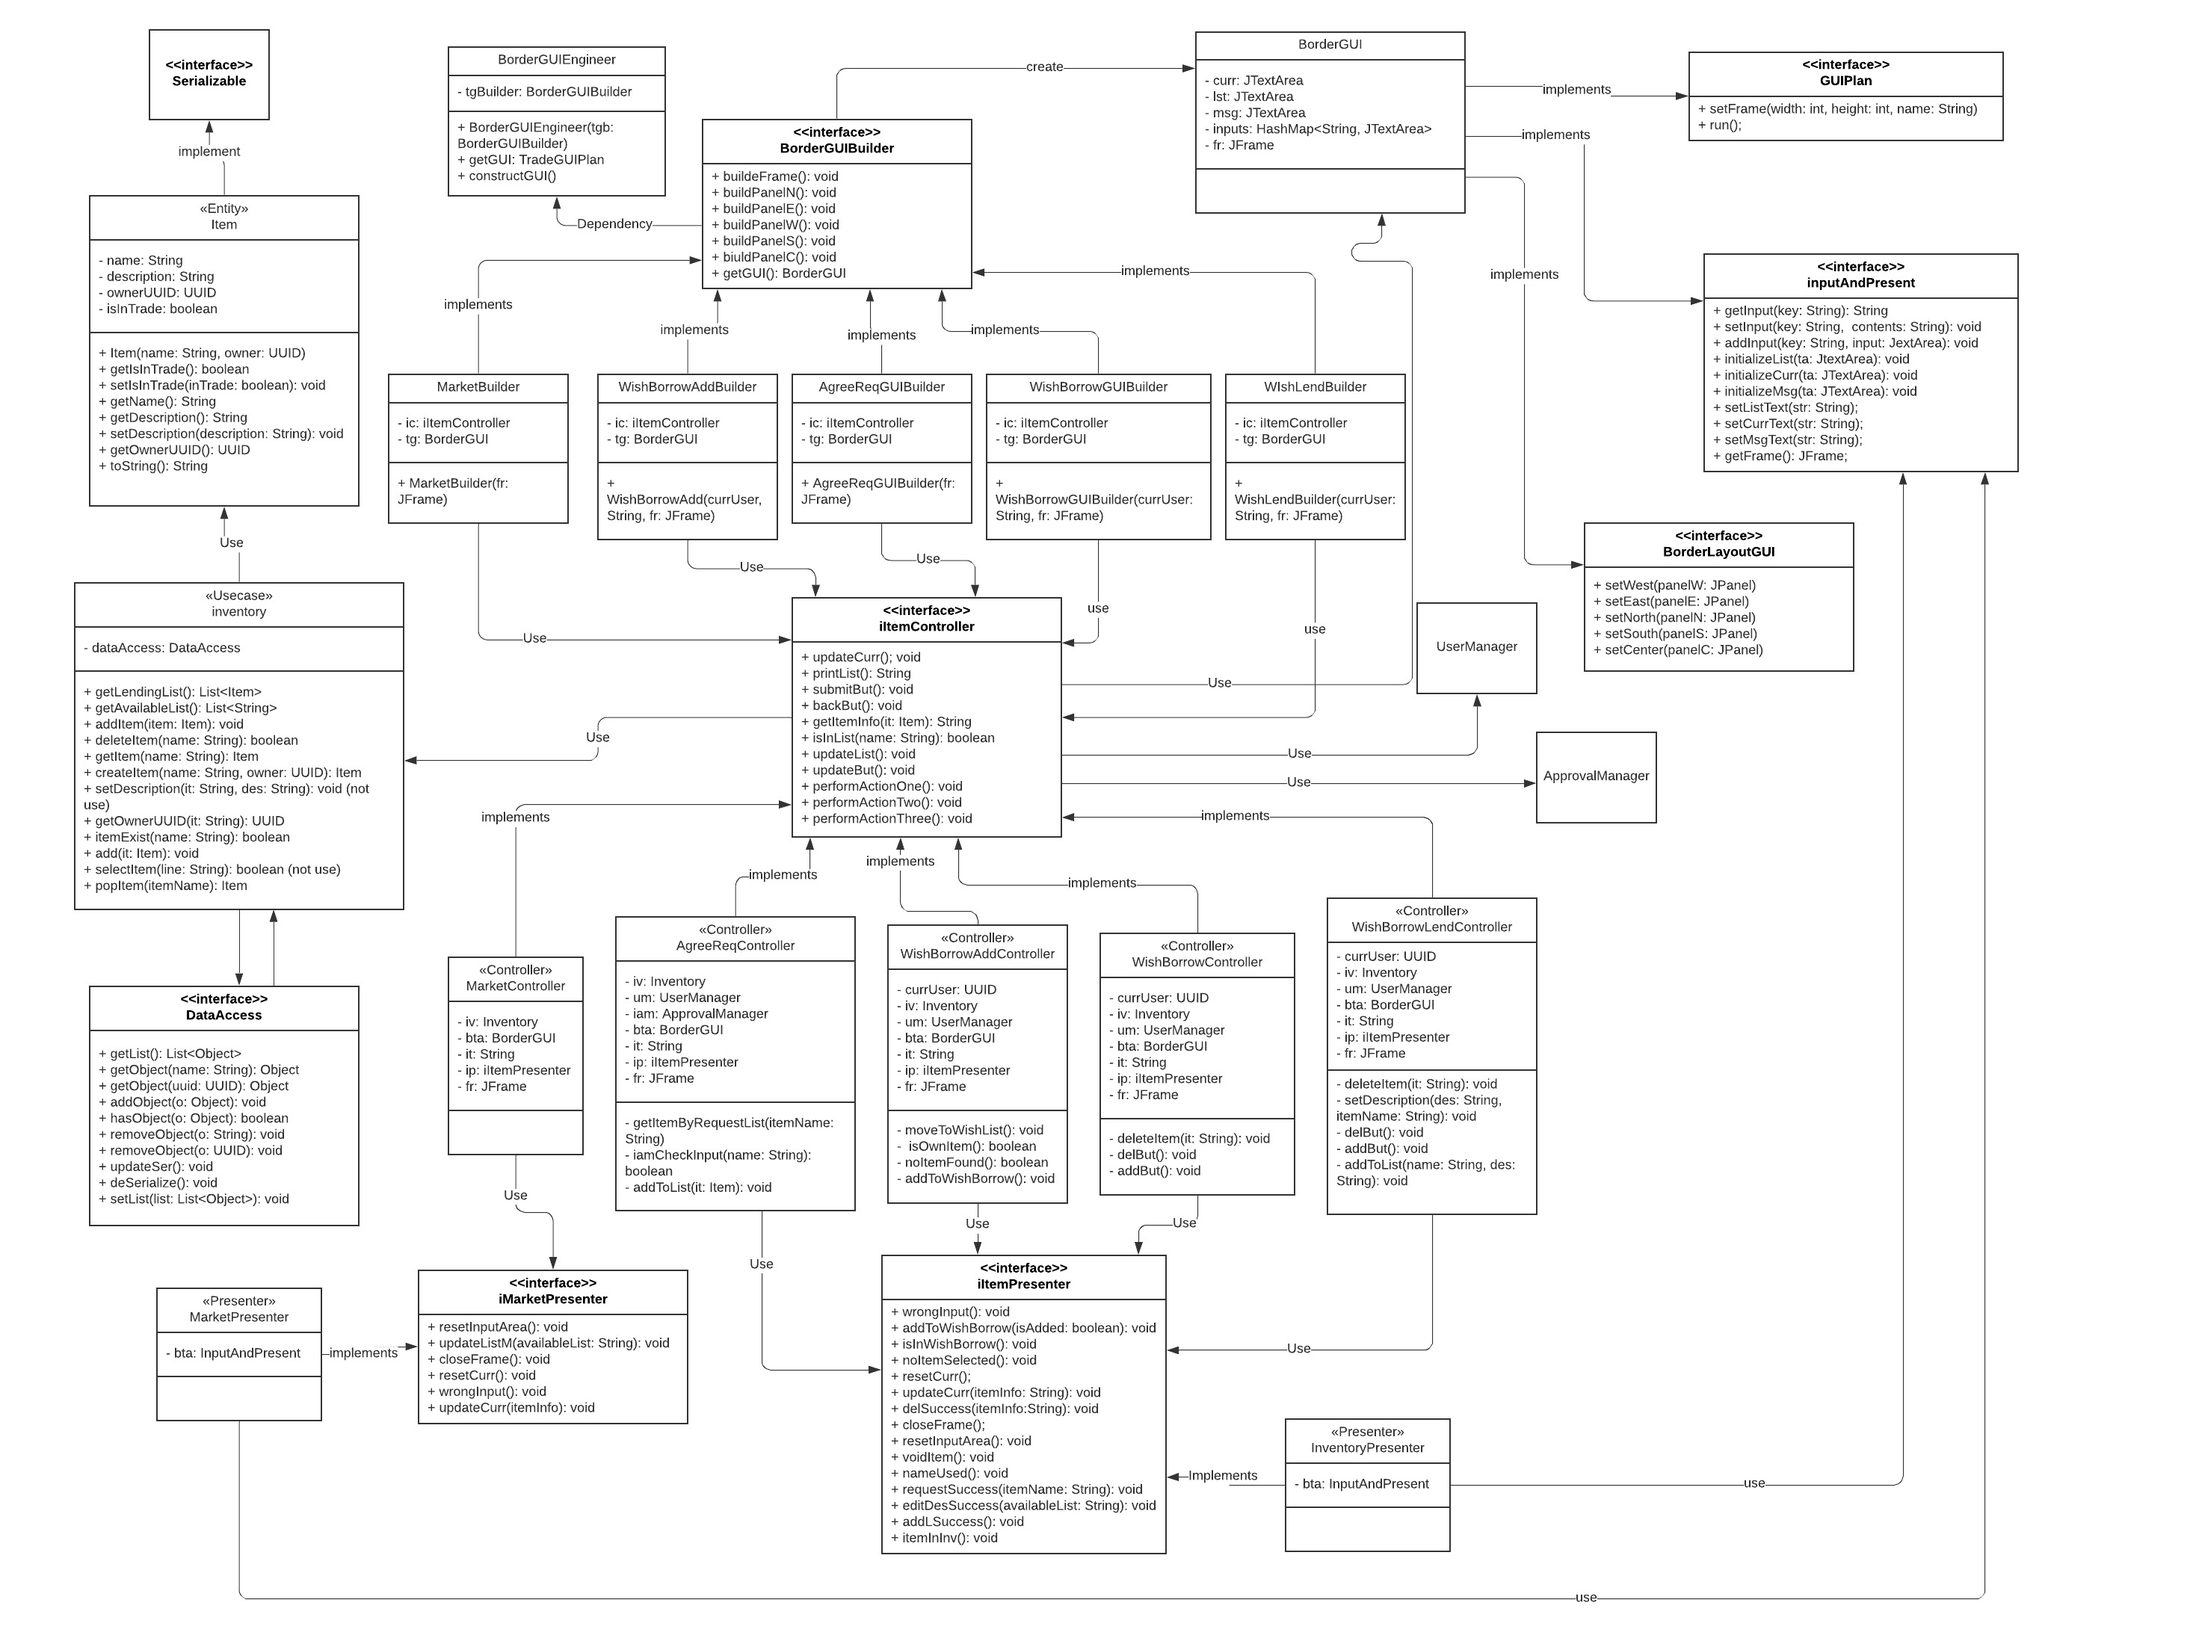
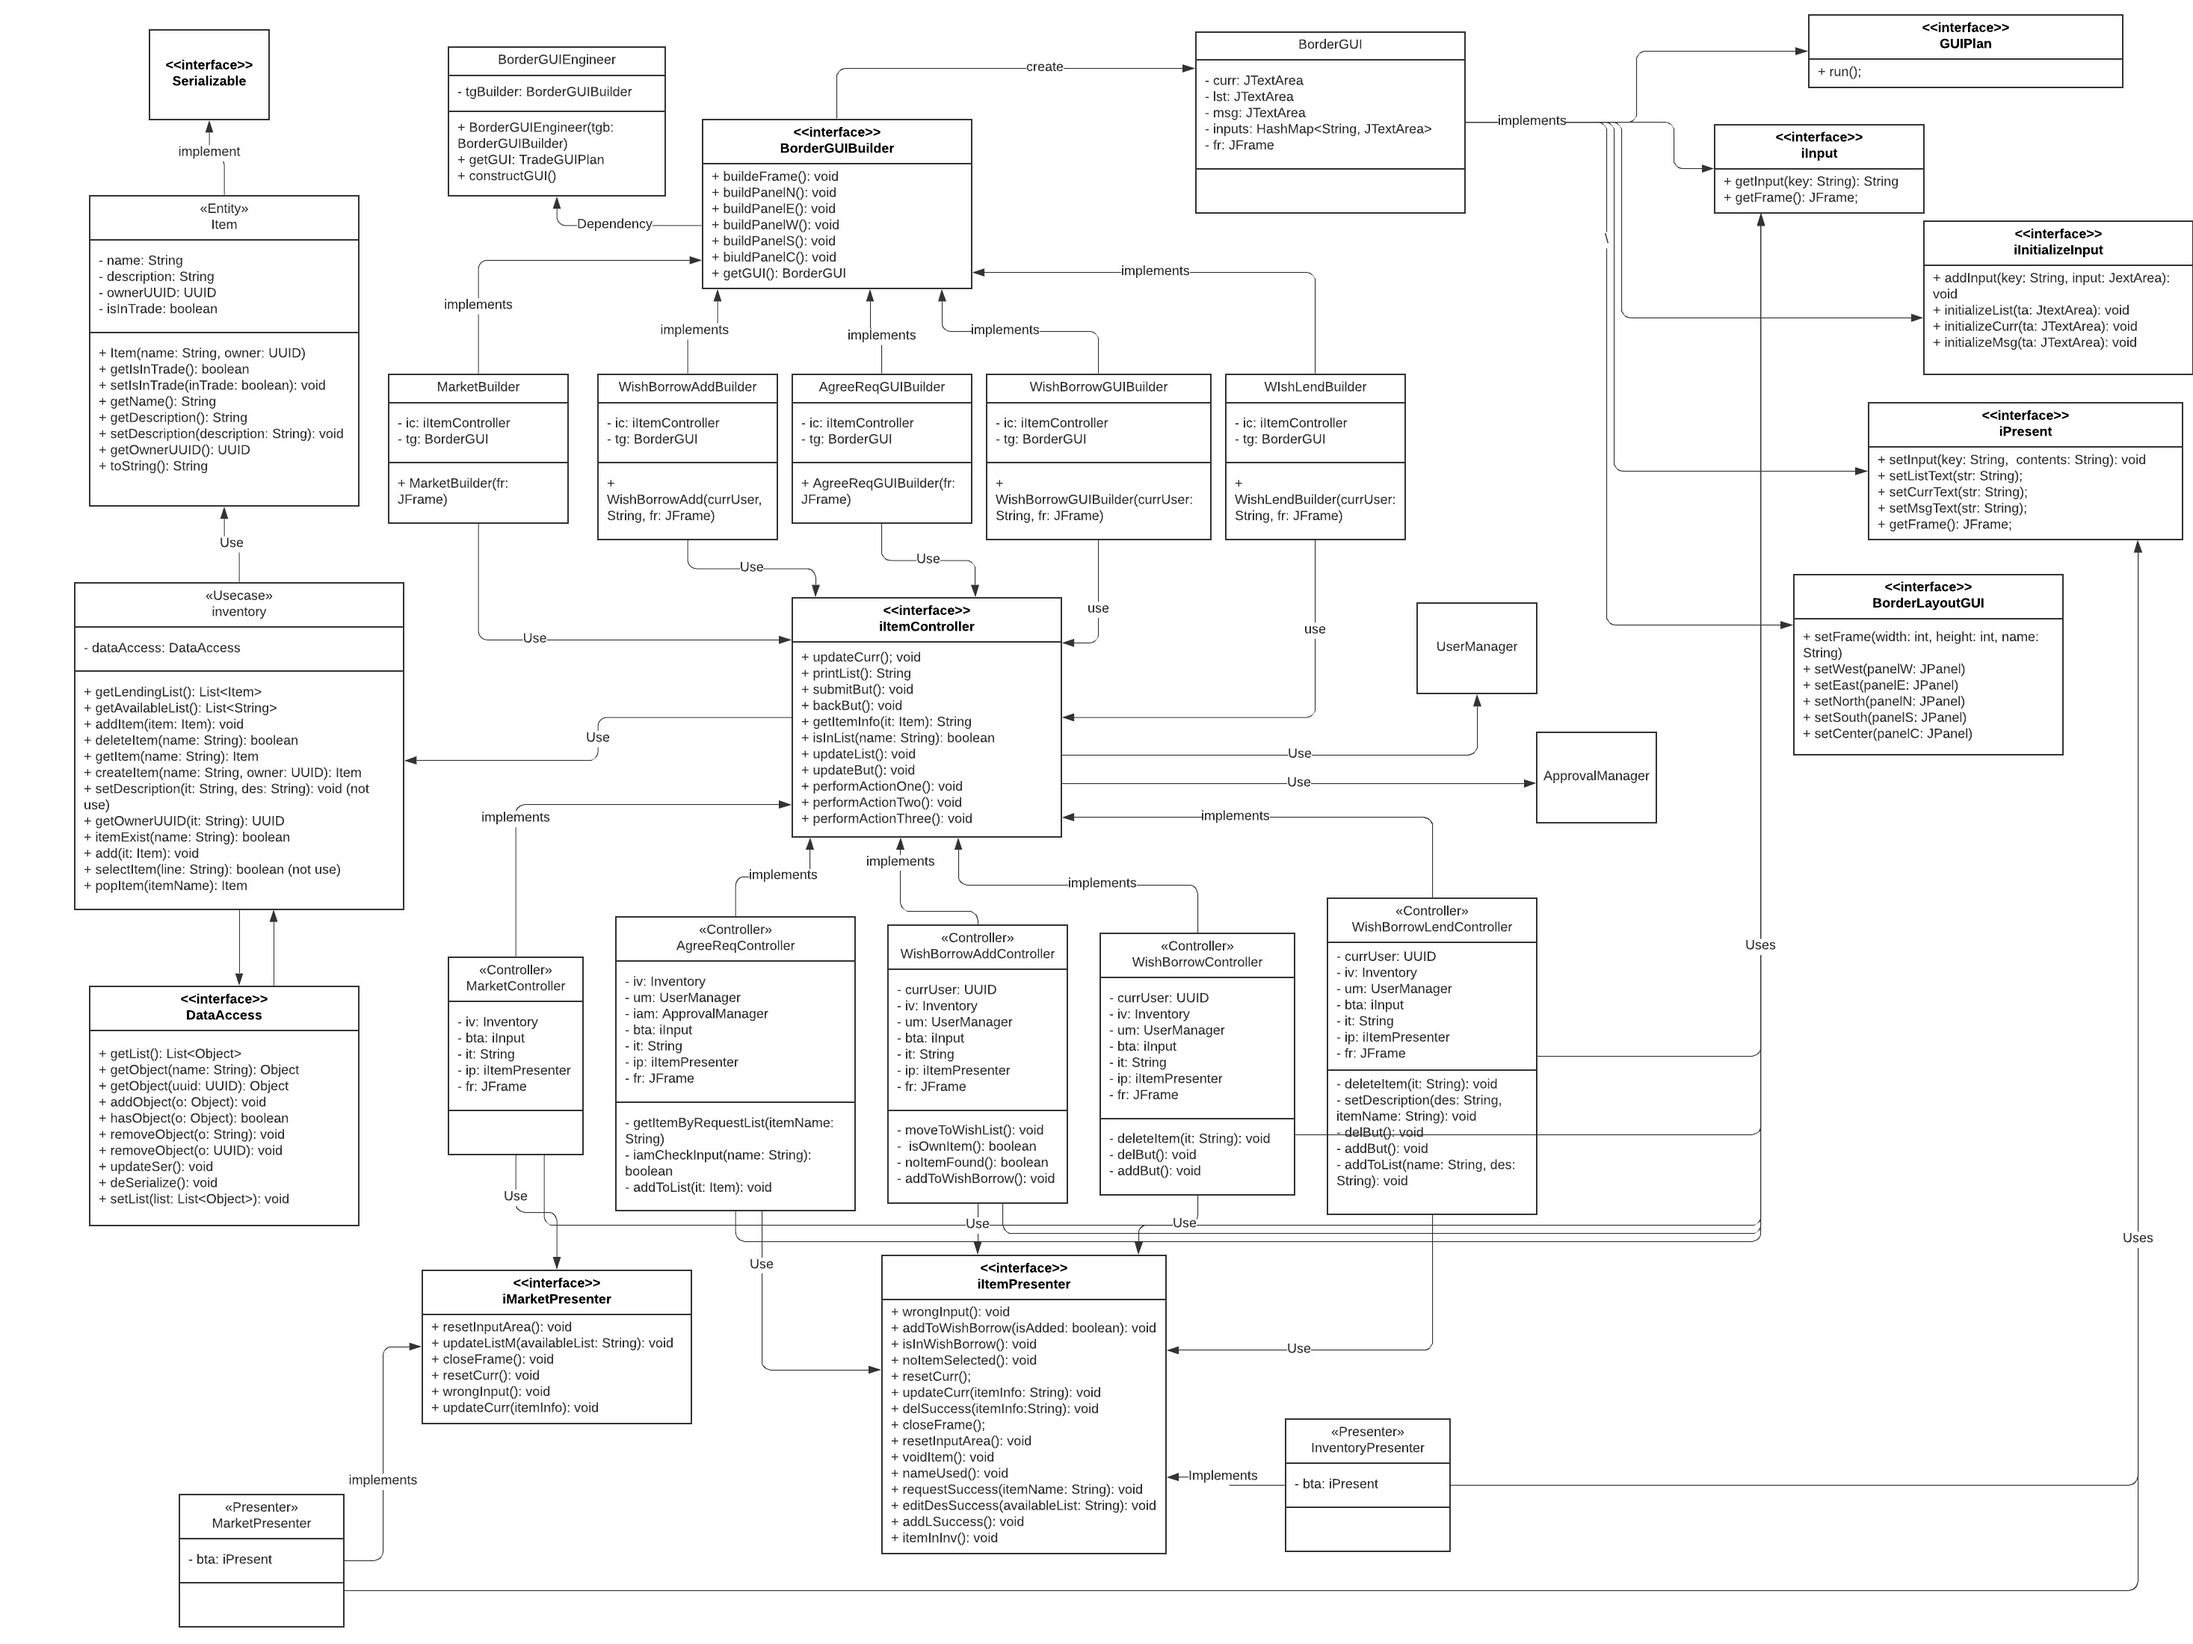
edit uml

diff --git a/phase2/src/Trade/Adaptor/BorderGUI.java b/phase2/src/Trade/Adaptor/BorderGUI.java
@@ -4,7 +4,7 @@ import javax.swing.*;
 import java.awt.*;
 import java.util.HashMap;
 
-public class BorderGUI implements GUIPlan, BorderLayoutGUI, iPresent, iBuilder, iInput {
+public class BorderGUI implements GUIPlan, BorderLayoutGUI, iPresent, iInitializeInput, iInput {
     private JTextArea curr;
     private JTextArea list;
     private JTextArea msg;

diff --git a/phase2/src/Trade/Adaptor/iInitializeInput.java b/phase2/src/Trade/Adaptor/iInitializeInput.java
@@ -2,7 +2,7 @@ package Trade.Adaptor;
 
 import javax.swing.*;
 
-public interface iBuilder {
+public interface iInitializeInput {
     void addInput(String key, JTextArea input);
     void initializeList(JTextArea ta);
     void initializeCurr(JTextArea ta);
